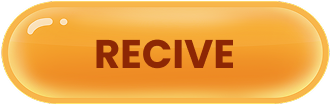
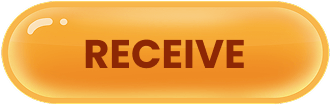
fix: [pak h5] Update app login promo image and notification content

Changed region(s): [[0.2424, 0.3645, 0.7576, 0.6449]]

diff --git a/pak-static-h5/src/i18n/ur.js b/pak-static-h5/src/i18n/ur.js
@@ -78,7 +78,7 @@ export default {
       enterCodeToClaim: "اسے دعوی کرنے کے لیے نقدی کا کوڈ درج کریں۔"
     },
     appLoginBonus: {
-      validatePhoneAndEmail: "براہ کرم پہلے اپنا ای میل یا فون نمبر باندھیں۔"
+      validatePhoneAndEmail: "براہ کرم پہلے اپنا فون منسلک کریں"
     }
   },
   form: {

diff --git a/pak-static-h5/src/i18n/en.js b/pak-static-h5/src/i18n/en.js
@@ -80,7 +80,7 @@ export default {
       enterCodeToClaim: "Please enter the cash redemption code to claim it."
     },
     appLoginBonus: {
-      validatePhoneAndEmail: "Please bind your email/phone first"
+      validatePhoneAndEmail: "Please bind your phone first"
     }
   },
   form: {
